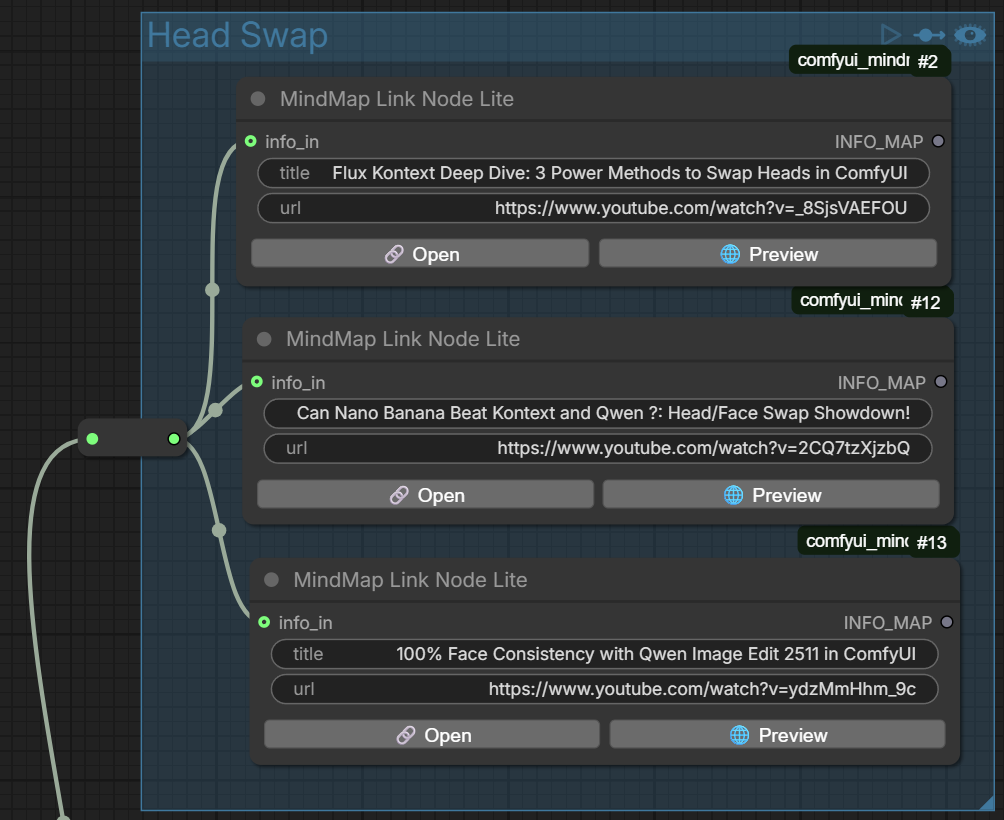
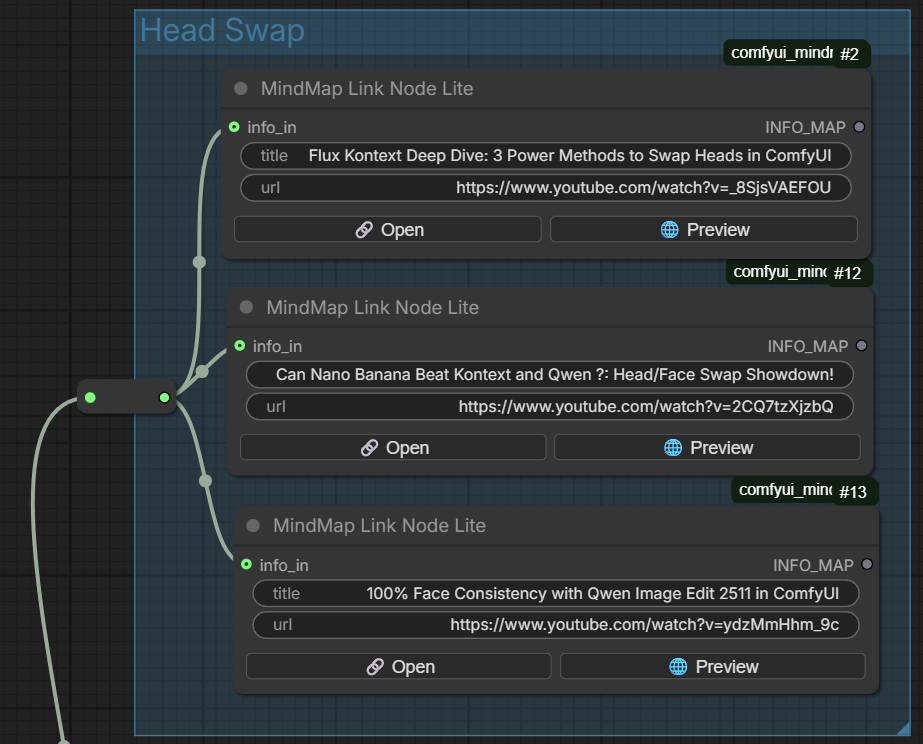
code update

diff --git a/web/mindmap_style.css b/web/mindmap_style.css
@@ -40,47 +40,6 @@ font-size:10px;
 opacity:0.6;
 }
 
-/* NODE BUTTONS */
-
-.mindmap-node-buttons{
-display:flex;
-gap:6px;
-width:100%;
-margin-top:6px;
-}
-
-.mindmap-node-button{
-flex:1;
-padding:4px 6px;
-border:1px solid #666;
-background:#2a2a2a;
-color:#ddd;
-border-radius:4px;
-cursor:pointer;
-font-size:11px;
-text-align:center;
-}
-
-.mindmap-node-button:hover{
-background:#3a3a3a;
-}
-
-.mindmap-toolbar{
-display:grid;
-gap:4px;
-width:100%;
-}
-
-.mindmap-toolbar button{
-height:20px;
-padding:0 6px;
-font-size:11px;
-white-space:nowrap;
-cursor:pointer;
-/*background:#111;*/
-border:1px solid #555;
-}
-
 /* Lite node */
 
 .mindmap-toolbar-lite{
@@ -94,8 +53,15 @@ top:-3px;
 margin-top:-10px;
 }
 
-.comfyui-button {
+.mindmap-toolbar-advanced .comfyui-button,
+.mindmap-toolbar-lite .comfyui-button {
 justify-content: center;
-/*background:#444;*/
+background:#2a2a2a;
+color:#ddd;
 border:1px solid #555;
+}
+
+.mindmap-toolbar-advanced .comfyui-button:hover,
+.mindmap-toolbar-lite .comfyui-button:hover{
+background:#444;
 }

diff --git a/web/mindmap_link_advanced.js b/web/mindmap_link_advanced.js
@@ -12,7 +12,7 @@ const link = document.createElement("link");
 
 link.id = "mindmap-css";
 link.rel = "stylesheet";
-link.href = "/extensions/comfyui_mindmap/mindmap_style.css?v=2.9.3";
+link.href = "/extensions/comfyui_mindmap/mindmap_style.css";
 
 document.head.appendChild(link);
 
